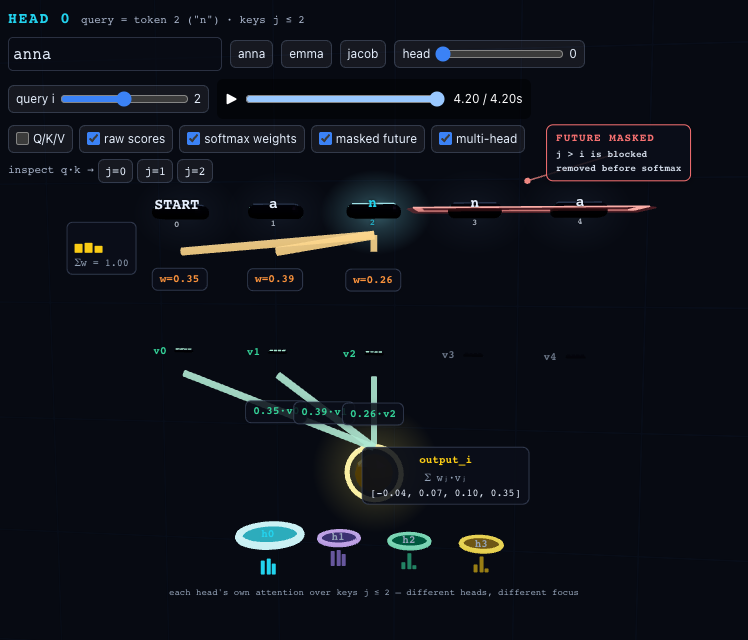
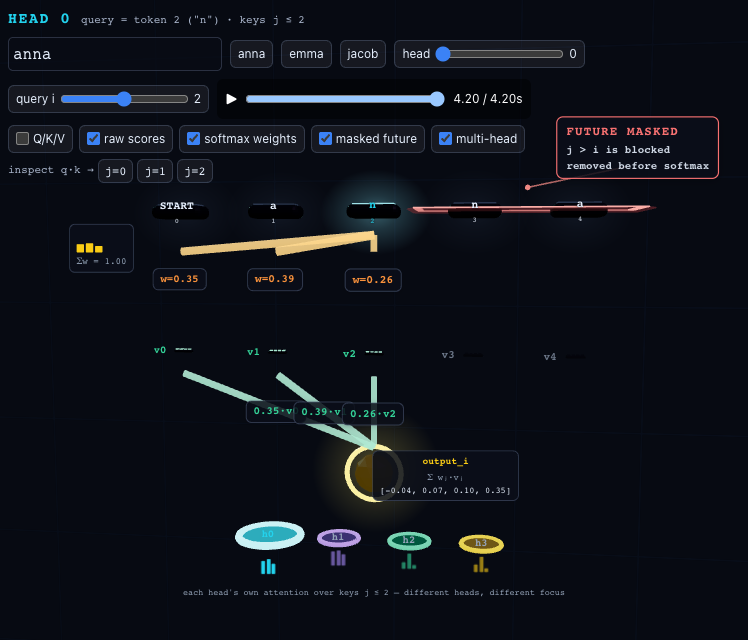
refine(03-attention): mask label lives in MaskPanel, off-centre with leader line
Move the mask callout back into MaskPanel.tsx so the panel is self-contained:

- Label is no longer centred on the red wall. It renders as a compact card
  offset to the panel's upper-right via a configurable `labelOffset` prop
  (default [size[0]/2 + 0.8, 0.8, 0.2]), drawn OUTSIDE the stretched sub-group
  so the panel's non-uniform scale never distorts it.
- A thin leader line runs from the card's lower-left to the panel's top-centre
  (with a dot on the wall), so the link is clear without text on the panel.
- AttentionSandbox passes a clamped labelOffset so the card stays in-frame even
  when the masked region is wide, and no longer covers any token chip.
- Removed the now-redundant MaskCallout component.

Regenerated attention.png. typecheck/lint/unit/7 e2e/check-assets all pass;
verified with both-theme screenshots.

diff --git a/components/3d/attention/MaskPanel.tsx b/components/3d/attention/MaskPanel.tsx
@@ -1,12 +1,13 @@
 'use client';
 
-import { useGLTF } from '@react-three/drei';
-import { useLayoutEffect, useMemo } from 'react';
-import { type Object3D } from 'three';
+import { useGLTF, Html } from '@react-three/drei';
+import { useLayoutEffect, useMemo, type CSSProperties } from 'react';
+import { type Object3D, Quaternion, Vector3 } from 'three';
 import type { AttentionTheme } from './theme';
 import { cloneGlb, eachMaterial } from './glbUtil';
 
 const URL = '/microgpt-3d-tutorial/models/attention/mask-panel.glb';
+const UP = new Vector3(0, 1, 0);
 
 export interface MaskPanelProps {
   position: [number, number, number];
@@ -15,9 +16,16 @@ export interface MaskPanelProps {
   theme: AttentionTheme;
   /** 0..1 reveal (the wall rises in). */
   reveal: number;
+  /**
+   * Where the compact label card floats, RELATIVE to the panel centre (in
+   * unscaled local space — it is NOT affected by the panel's stretch scale).
+   * Default: upper-right of the panel so the text never sits on the red wall
+   * or on a token chip. A leader line connects it back to the panel.
+   */
+  labelOffset?: [number, number, number];
 }
 
-export function MaskPanel({ position, size, theme, reveal }: MaskPanelProps) {
+export function MaskPanel({ position, size, theme, reveal, labelOffset }: MaskPanelProps) {
   const gltf = useGLTF(URL);
   const scene = useMemo(() => cloneGlb(gltf.scene), [gltf.scene]);
 
@@ -36,11 +44,55 @@ export function MaskPanel({ position, size, theme, reveal }: MaskPanelProps) {
   }, [scene, theme.maskColor, theme.glow, theme.haloMode]);
 
   if (reveal <= 0.02) return null;
-  // The label is intentionally NOT drawn on the panel — it lives in a floating
-  // MaskCallout (with a leader line) so no text sits on top of the red wall.
+
+  // Label card sits OUTSIDE the stretched sub-group, so the non-uniform panel
+  // scale never distorts it. Default: clear of the panel's right edge and above
+  // the token row.
+  const off = labelOffset ?? [size[0] / 2 + 0.8, 0.8, 0.2];
+
+  // Leader line: from the card's lower-left corner to the panel's top-centre
+  // (a point on the wall), so the connection is unambiguous without text on it.
+  const a = new Vector3(off[0] - 0.14, off[1] - 0.26, off[2] - 0.02);
+  const b = new Vector3(0, 0.32, 0.12);
+  const dir = b.clone().sub(a);
+  const len = dir.length() || 1;
+  const quat = new Quaternion().setFromUnitVectors(UP, dir.clone().normalize());
+  const mid = a.clone().add(b).multiplyScalar(0.5);
+
+  const card: CSSProperties = {
+    pointerEvents: 'none', userSelect: 'none', whiteSpace: 'nowrap', textAlign: 'left',
+    fontFamily: 'ui-monospace, monospace', color: theme.cardText,
+    background: theme.cardBg, border: `1px solid ${theme.maskColor}`,
+    borderRadius: 6, padding: '4px 8px', boxShadow: '0 2px 8px rgba(0,0,0,0.22)',
+  };
+
   return (
-    <group position={position} scale={[size[0], size[1] * reveal, 1]}>
-      <primitive object={scene as Object3D} />
+    <group position={position}>
+      {/* the red wall — stretched to cover the future region */}
+      <group scale={[size[0], size[1] * reveal, 1]}>
+        <primitive object={scene as Object3D} />
+      </group>
+
+      {/* off-centre compact label + leader line (only once the wall is up) */}
+      {reveal > 0.5 && (
+        <>
+          <group position={mid.toArray()} quaternion={quat.toArray()}>
+            <mesh>
+              <cylinderGeometry args={[0.012, 0.012, len, 6]} />
+              <meshBasicMaterial color={theme.maskColor} transparent opacity={0.75} depthWrite={false} />
+            </mesh>
+          </group>
+          <mesh position={b.toArray()}>
+            <sphereGeometry args={[0.04, 10, 10]} />
+            <meshBasicMaterial color={theme.maskColor} />
+          </mesh>
+          <Html position={off} center distanceFactor={10} zIndexRange={[24, 0]} style={card}>
+            <div style={{ fontSize: 11, fontWeight: 800, letterSpacing: 1, color: theme.maskColor }}>FUTURE MASKED</div>
+            <div style={{ fontSize: 9.5, fontWeight: 600, opacity: 0.9 }}>j &gt; i is blocked</div>
+            <div style={{ fontSize: 9.5, fontWeight: 600, opacity: 0.9 }}>removed before softmax</div>
+          </Html>
+        </>
+      )}
     </group>
   );
 }

diff --git a/components/3d/attention/AttentionSandbox.tsx b/components/3d/attention/AttentionSandbox.tsx
@@ -19,7 +19,6 @@ import { QKVStrips } from './QKVStrips';
 import { ValueChip } from './ValueChip';
 import { AttentionBeam } from './AttentionBeam';
 import { MaskPanel } from './MaskPanel';
-import { MaskCallout } from './MaskCallout';
 import { OutputMixer } from './OutputMixer';
 import { HeadRing } from './HeadRing';
 import { BeamLabel, WeightBar, MixerLabel } from './AttentionLabels';
@@ -234,19 +233,16 @@ export function AttentionSandbox({ defaultText }: AttentionSandboxProps) {
             </Html>
           )}
 
-          {/* Causal mask over future token chips j>i, with a floating callout
-              (leader line) so no text sits on top of the red wall. */}
+          {/* Causal mask over future token chips j>i. MaskPanel draws its own
+              compact label off to the upper-right (with a leader line), so no
+              text sits on the red wall. The offset's effective half-width is
+              clamped so the card stays in-frame even when the region is wide. */}
           {showMask && qi < T - 1 && (
-            <>
-              <MaskPanel
-                position={[(tokenX(qi + 1) + tokenX(T - 1)) / 2, TOKEN_Y, 0.15]}
-                size={[(T - 1 - qi) * GAP + 0.4, 1.05]}
-                theme={theme} reveal={state.progress.mask} />
-              <MaskCallout
-                anchor={[tokenX(T - 1) + 0.55, TOKEN_Y + 0.82, 0]}
-                target={[(tokenX(qi + 1) + tokenX(T - 1)) / 2, TOKEN_Y + 0.42, 0.18]}
-                theme={theme} reveal={state.progress.mask} />
-            </>
+            <MaskPanel
+              position={[(tokenX(qi + 1) + tokenX(T - 1)) / 2, TOKEN_Y, 0.15]}
+              size={[(T - 1 - qi) * GAP + 0.4, 1.05]}
+              labelOffset={[Math.min((T - 1 - qi) * GAP + 0.4, 2.0) / 2 + 0.5, 0.85, 0.2]}
+              theme={theme} reveal={state.progress.mask} />
           )}
 
           {/* ORANGE attention lane: query → each visible key (weights). Cyan while
